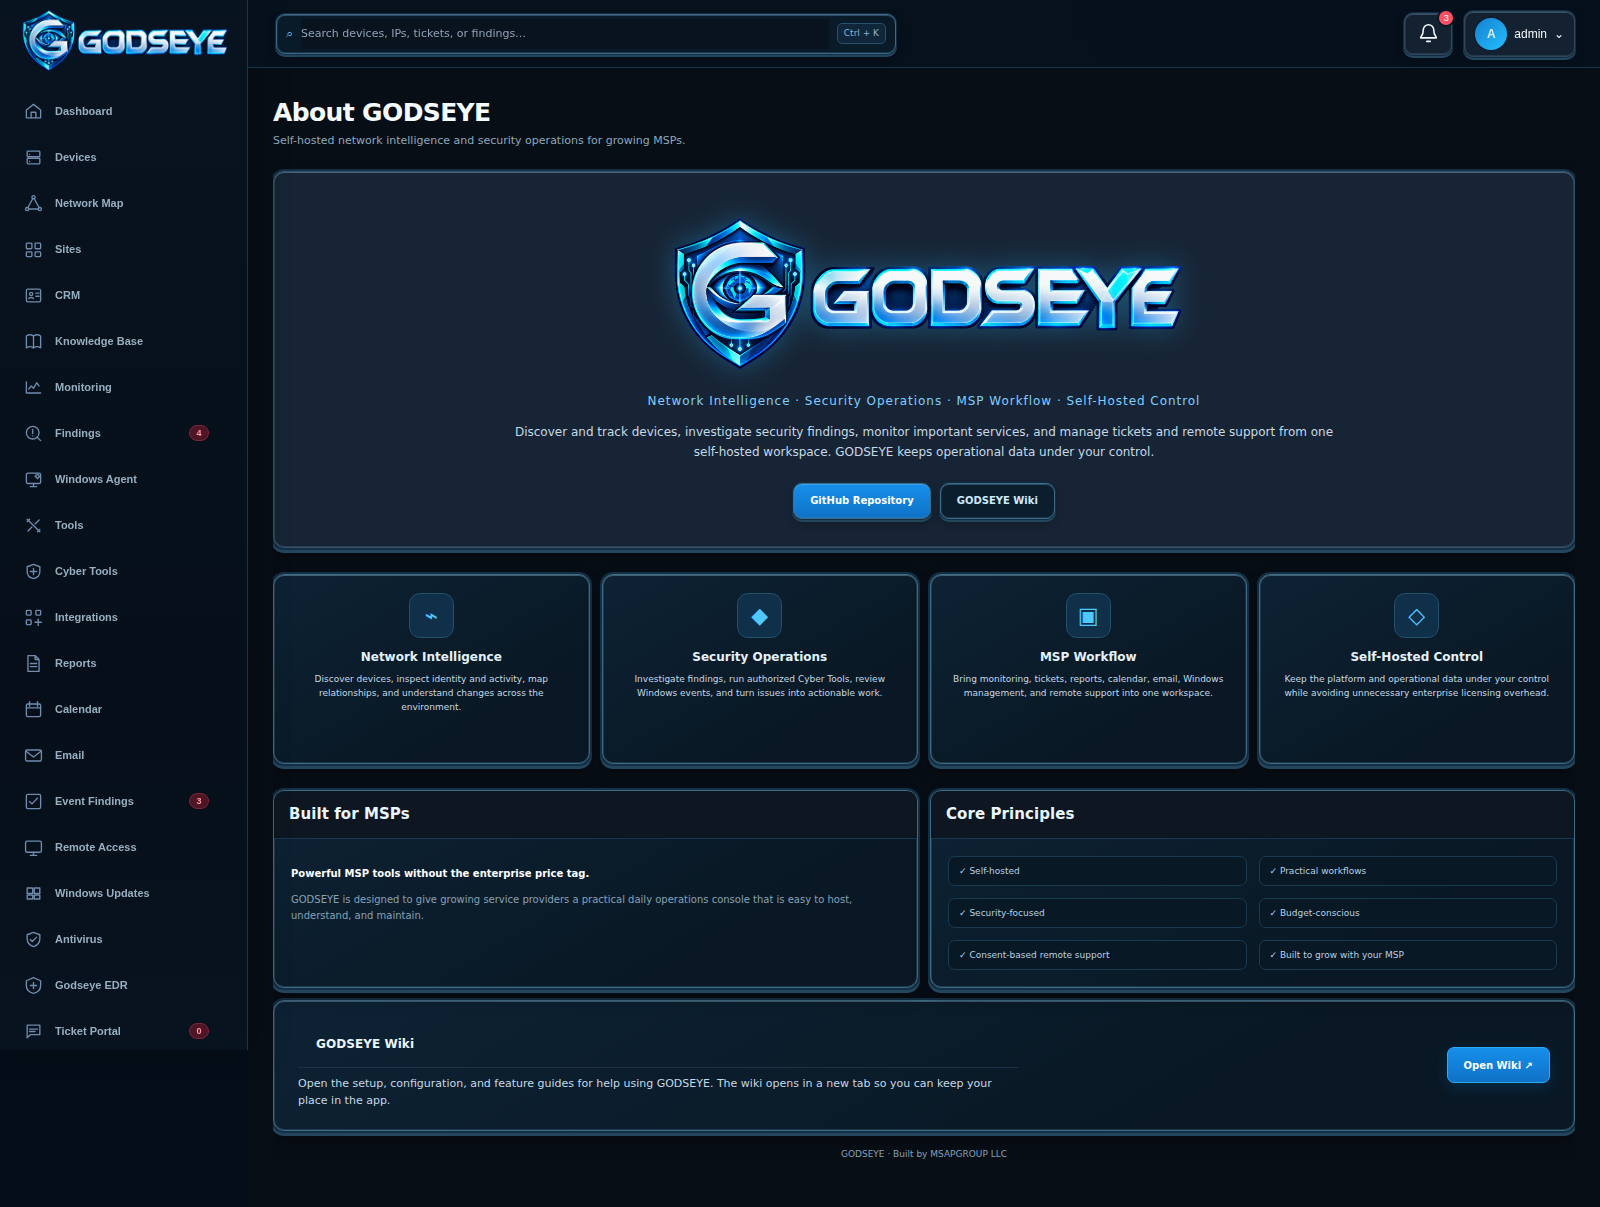
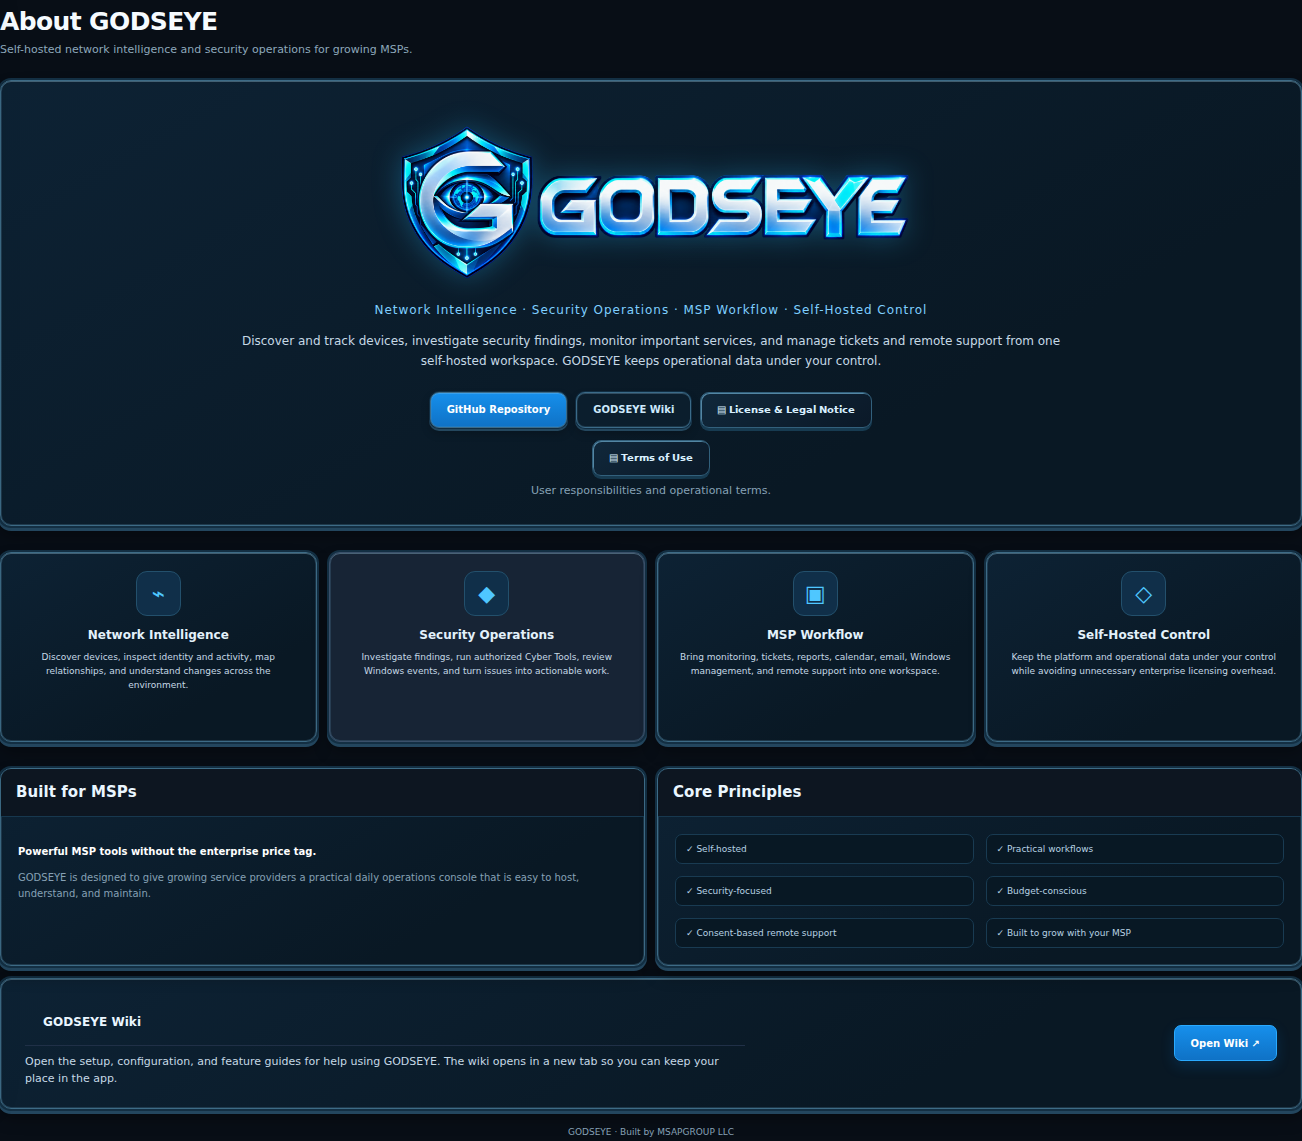
Add About license and terms cards with local GPL and screenshot guide

Changed region(s): [[0.0, 0.0, 1.0, 1.0], [0.0, 0.2761, 0.0922, 0.3988], [0.0, 0.1227, 0.0614, 0.2147]]

diff --git a/app/assets/about-legal.css b/app/assets/about-legal.css
@@ -1,0 +1,6 @@
+.about-terms-link{display:grid;justify-items:center;gap:8px;margin-top:12px}.about-terms-link small{color:#86adc7;font-size:11px}.about-legal-dialog{padding:0;width:min(920px,calc(100% - 32px));max-width:none;max-height:calc(100dvh - 32px);color:#e4f2fb;background:linear-gradient(145deg,#102b40,#071724);border:1px solid #508dab;border-radius:14px;box-shadow:inset 1px 1px #79b7d1,inset -1px -1px #234d66,0 4px #1b465c,0 24px 80px #0009;overflow:hidden}.about-legal-dialog::backdrop{background:#020c17bf;backdrop-filter:blur(3px)}.about-legal-shell{display:flex;flex-direction:column;max-height:calc(100dvh - 36px)}.about-legal-heading{display:flex;justify-content:space-between;align-items:flex-start;gap:16px;padding:25px 28px 12px}.about-legal-heading h2{margin:0 0 8px;font-size:25px;line-height:1.25;color:#eaf7ff}.about-legal-heading p{margin:0;color:#70d3ff;font-size:12px;letter-spacing:.07em}.about-legal-x{padding:2px 8px!important;background:transparent!important;border:0!important;box-shadow:none!important;color:#b9e5ff!important;font-size:28px!important;line-height:1!important;cursor:pointer}.about-legal-badge{align-self:flex-start;margin:0 28px 12px;border:1px solid #317dab;border-radius:20px;padding:5px 12px;color:#85d6ff;font-size:11px;background:#0a2c44}.about-legal-body{min-height:0;overflow-y:auto;overscroll-behavior:contain;padding:0 28px}.about-legal-body [hidden]{display:none!important}.about-legal-body section{padding:16px 0;border-bottom:1px solid #254d64}.about-legal-body section:last-child{border-bottom:0}.about-legal-body h3{margin:0 0 8px;color:#70d3ff;font-size:15px}.about-legal-body p{margin:0;color:#c5dcea;font-size:13px;line-height:1.65;overflow-wrap:anywhere}.about-legal-footer{display:flex;align-items:center;gap:14px;flex-wrap:wrap;padding:17px 28px;border-top:1px solid #2b5369;background:#071824}.about-legal-links{display:flex;gap:9px;flex-wrap:wrap}.about-legal-footer a,.about-legal-footer button{display:inline-flex;align-items:center;justify-content:center;text-decoration:none;font-size:11px!important;min-height:34px}.about-legal-footer small{color:#799eb6;font-size:10px;line-height:1.5;flex:1;min-width:120px}.about-legal-dialog :is(a,button):focus-visible{outline:3px solid #72d5ff;outline-offset:3px}@media(max-width:600px){.about-legal-heading{padding:18px 18px 10px}.about-legal-heading h2{font-size:21px}.about-legal-body{padding:0 18px}.about-legal-badge{margin-left:18px}.about-legal-footer{padding:12px 18px;gap:10px}.about-legal-links{width:100%}.about-legal-footer small{min-width:0}.about-legal-body p{font-size:12px}.about-legal-heading p{font-size:10px}}
+/* Keep site-wide header and heading rules from restyling the dialog. */
+#aboutLegalDialog .about-legal-heading{background:transparent!important;color:#eaf7ff!important;box-shadow:none!important;border-bottom:0!important;position:static!important;height:auto!important;min-height:0!important}
+#aboutLegalDialog .about-legal-heading h2{color:#eaf7ff!important}#aboutLegalDialog .about-legal-heading p{color:#70d3ff!important}#aboutLegalDialog .about-legal-body h3{color:#70d3ff!important}
+#aboutLegalNoticeButton,#view-about .about-terms-link button{border:1px solid #32607c!important;background:linear-gradient(145deg,#10283b,#0b1928)!important;box-shadow:inset 1px 1px #5386a3,0 3px #173b51!important;border-radius:9px!important;color:#d9f0ff!important}
+#aboutLegalDialog .about-legal-footer .secondary{border:1px solid #32607c!important;border-radius:8px!important;background:#0b2132!important;box-shadow:inset 1px 1px #3e6d86,0 2px #173b51!important;padding:8px 12px!important;color:#bde6ff!important}

diff --git a/app/assets/about-legal.js b/app/assets/about-legal.js
@@ -1,0 +1,26 @@
+/* Informational legal cards: no acceptance gate or changes to access permissions. */
+let ABOUT_LEGAL_KIND='notice',ABOUT_LEGAL_ORIGIN=null;
+function openAboutLegal(kind='notice'){
+ const dialog=document.getElementById('aboutLegalDialog');if(!dialog)return;
+ const terms=kind==='terms';ABOUT_LEGAL_KIND=terms?'terms':'notice';
+ document.getElementById('aboutLegalTitle').textContent=terms?'GODSEYE Terms of Use':'License & Legal Notice';
+ document.getElementById('aboutLegalSubtitle').textContent=terms?'MSAP Group LLC · Draft for review':'GODSEYE · MSAP Group LLC';
+ document.getElementById('aboutLegalNoticeContent').hidden=terms;
+ document.getElementById('aboutLegalTermsContent').hidden=!terms;
+ document.getElementById('aboutLegalSwitch').textContent=terms?'License & Legal Notice':'Terms of Use';
+ if(!dialog.open){ABOUT_LEGAL_ORIGIN=document.activeElement;dialog.showModal()}
+ dialog.querySelector('.about-legal-body').scrollTop=0;
+}
+function switchAboutLegal(){openAboutLegal(ABOUT_LEGAL_KIND==='notice'?'terms':'notice')}
+function closeAboutLegal(){document.getElementById('aboutLegalDialog')?.close()}
+const aboutLegalDialog=document.getElementById('aboutLegalDialog');
+aboutLegalDialog?.addEventListener('close',()=>{if(ABOUT_LEGAL_ORIGIN?.isConnected)ABOUT_LEGAL_ORIGIN.focus();ABOUT_LEGAL_ORIGIN=null});
+aboutLegalDialog?.addEventListener('click',event=>{if(event.target!==aboutLegalDialog)return;const r=aboutLegalDialog.getBoundingClientRect();if(event.clientX<r.left||event.clientX>r.right||event.clientY<r.top||event.clientY>r.bottom)closeAboutLegal()});
+aboutLegalDialog?.addEventListener('keydown',event=>{
+ if(event.key!=='Tab')return;
+ const items=[...aboutLegalDialog.querySelectorAll('a[href],button:not([disabled]),[tabindex="0"]')].filter(el=>el.getClientRects().length);
+ if(!items.length)return;
+ const first=items[0],last=items[items.length-1],active=document.activeElement;
+ if(event.shiftKey&&(active===first||!aboutLegalDialog.contains(active))){event.preventDefault();last.focus()}
+ else if(!event.shiftKey&&(active===last||!aboutLegalDialog.contains(active))){event.preventDefault();first.focus()}
+});

diff --git a/app/main.py b/app/main.py
@@ -918,6 +918,18 @@ def dashboard_map_reference():
 def godseye_approved_asset():
     return FileResponse(BASE_DIR / "app" / "assets" / "godseye-approved.png", media_type="image/png", headers={"Cache-Control":"public, max-age=86400"})
 
+@app.get("/assets/about-legal.css", include_in_schema=False)
+def about_legal_css_asset():
+    return FileResponse(BASE_DIR / "app" / "assets" / "about-legal.css", media_type="text/css")
+
+@app.get("/assets/about-legal.js", include_in_schema=False)
+def about_legal_js_asset():
+    return FileResponse(BASE_DIR / "app" / "assets" / "about-legal.js", media_type="application/javascript")
+
+@app.get("/assets/LICENSE.txt", include_in_schema=False)
+def about_license_asset():
+    return FileResponse(BASE_DIR / "LICENSE", media_type="text/plain")
+
 @app.get("/assets/audit.css", include_in_schema=False)
 def audit_css_asset():
     return FileResponse(BASE_DIR / "app" / "assets" / "audit.css", media_type="text/css")
@@ -7229,7 +7241,7 @@ html:not([data-theme="dark"]) :is(.v430-global-search,.v430-bell,.user-chip,.aut
 .cyber-report-heading{display:flex;align-items:start;gap:10px;justify-content:space-between;margin-bottom:12px}.cyber-report-status{font-size:10px;border:1px solid currentColor;border-radius:20px;padding:2px 7px;text-transform:capitalize}
 .cyber-report-metrics{display:grid;grid-template-columns:repeat(auto-fit,minmax(80px,1fr));gap:8px;margin-bottom:12px}.cyber-report-metric{padding:9px;border:1px solid #31516a;border-radius:8px;background:rgba(69,156,219,.08)}.cyber-report-metric strong{display:block;font-size:22px;color:#60bfff}.cyber-report-metric span{font-size:10px}
 .cyber-report-section{border:1px solid #31516a;border-radius:8px;margin:8px 0;padding:8px}.cyber-report-section summary{cursor:pointer;font-weight:600;overflow-wrap:anywhere}.cyber-report-field{display:grid;grid-template-columns:minmax(90px,1fr) minmax(0,1.5fr);gap:8px;padding:6px 0;border-bottom:1px solid rgba(128,158,183,.18)}.cyber-report-field strong{white-space:pre-wrap;overflow-wrap:anywhere;font-weight:500}.cyber-report-field>span{opacity:.8}.cyber-report-item{padding:6px 0;overflow-wrap:anywhere}.cyber-report-empty{opacity:.75}
-</style><link rel="stylesheet" href="/assets/sites.css"><link rel="stylesheet" href="/assets/crm.css"><link rel="stylesheet" href="/assets/kb.css"><link rel="stylesheet" href="/assets/audit.css"></head>
+</style><link rel="stylesheet" href="/assets/sites.css"><link rel="stylesheet" href="/assets/crm.css"><link rel="stylesheet" href="/assets/kb.css"><link rel="stylesheet" href="/assets/audit.css"><link rel="stylesheet" href="/assets/about-legal.css"></head>
 <body>
 <div id="authOverlay" class="overlay" style="display:none">
   <div class="authcard">
@@ -7950,7 +7962,9 @@ sudo godseye-https-setup godseye.example.com letsencrypt</pre></div></section>
     <div class="about-actions">
       <a class="primary about-button" href="https://github.com/msapgroup/Godseye" target="_blank" rel="noopener">GitHub Repository</a>
       <a class="secondary about-button" href="https://github.com/msapgroup/Godseye/wiki" target="_blank" rel="noopener noreferrer">GODSEYE Wiki</a>
+      <button type="button" class="secondary about-button" id="aboutLegalNoticeButton" onclick="openAboutLegal('notice')">▤ License &amp; Legal Notice</button>
     </div>
+    <div class="about-terms-link"><button type="button" class="secondary about-button" id="aboutTermsButton" onclick="openAboutLegal('terms')">▤ Terms of Use</button><small>User responsibilities and operational terms.</small></div>
   </div>
 
   <div class="about-feature-grid">
@@ -8158,6 +8172,30 @@ sudo godseye-https-setup godseye.example.com letsencrypt</pre></div></section>
   </div>
 </div>
 
+<dialog id="aboutLegalDialog" class="about-legal-dialog" aria-labelledby="aboutLegalTitle" aria-describedby="aboutLegalSubtitle">
+ <div class="about-legal-shell">
+  <header class="about-legal-heading"><div><h2 id="aboutLegalTitle">License &amp; Legal Notice</h2><p id="aboutLegalSubtitle">GODSEYE · MSAP Group LLC</p></div><button type="button" class="about-legal-x" aria-label="Close legal notice" onclick="closeAboutLegal()" autofocus>×</button></header>
+  <div class="about-legal-badge">GNU GPL v3.0</div>
+  <div class="about-legal-body">
+   <div id="aboutLegalNoticeContent">
+    <section><h3>1. Your responsibility</h3><p>You are responsible for deployment, configuration, permissions, backups, and all actions performed through GODSEYE and its agents. Obtain authorization before accessing or testing any device or network.</p></section>
+    <section><h3>2. No warranty</h3><p>GODSEYE is provided AS IS, without warranties of merchantability, fitness for a particular purpose, security, accuracy, or uninterrupted operation, to the extent permitted by applicable law.</p></section>
+    <section><h3>3. Limitation of liability</h3><p>To the extent permitted by applicable law, and unless agreed otherwise in writing, MSAP Group LLC and contributors are not liable for device or network damage, data loss, downtime, security incidents, lost profits, or other damages arising from use of, or inability to use, GODSEYE.</p></section>
+    <section><h3>4. License and legal rights</h3><p>The full GNU GPL v3.0 governs the software. This notice does not restrict GPL rights or exclude liability that applicable law does not permit to be excluded.</p></section>
+   </div>
+   <div id="aboutLegalTermsContent" hidden>
+    <section><h3>1. Authorized use &amp; account security</h3><p>Operate only on systems you own or have permission to manage. Protect credentials and tokens, control access, and obtain consent for remote support.</p></section>
+    <section><h3>2. Your data &amp; backups</h3><p>You retain ownership of your data. You are responsible for lawful collection, retention, access permissions, and tested backups of your self-hosted installation.</p></section>
+    <section><h3>3. Scans, updates &amp; remediation</h3><p>Review targets and findings before taking action. Test changes and keep recovery plans. Detection, scanning, updates, and remediation may be incomplete or disrupt systems.</p></section>
+    <section><h3>4. Third-party tools &amp; support</h3><p>Connected products, feeds, and services have separate terms and availability. Paid support or managed services require a separate written agreement.</p></section>
+    <section><h3>5. Warranty &amp; liability</h3><p>GODSEYE is provided AS IS. To the extent permitted by law, and unless agreed otherwise in writing, MSAP Group LLC disclaims warranties and liability for device or network damage, data loss, downtime, and other damages arising from use.</p></section>
+    <section><h3>6. Open-source rights &amp; legal limits</h3><p>GNU GPL v3.0 governs the software. This notice does not add restrictions to GPL rights or exclude liability that applicable law requires.</p></section>
+   </div>
+  </div>
+  <footer class="about-legal-footer"><div class="about-legal-links"><a class="secondary" href="/assets/LICENSE.txt" target="_blank" rel="noopener noreferrer">View GNU GPL v3.0 ↗</a><button type="button" class="secondary" id="aboutLegalSwitch" onclick="switchAboutLegal()">Terms of Use</button></div><small>Draft notice · Attorney review recommended before publication</small><button type="button" class="primary" onclick="closeAboutLegal()">Close</button></footer>
+ </div>
+</dialog>
+
 <div id="headerHelpModal" class="header-help-modal" style="display:none" role="dialog" aria-modal="true" aria-labelledby="headerHelpModalTitle">
   <div class="header-help-dialog">
     <div class="header-help-modal-head">
@@ -8167,7 +8205,7 @@ sudo godseye-https-setup godseye.example.com letsencrypt</pre></div></section>
     <div id="headerHelpModalBody" class="header-help-body"></div>
   </div>
 </div>
-<script src="/assets/sites.js"></script><script src="/assets/crm.js"></script><script src="/assets/kb.js"></script><script src="/assets/audit.js"></script>
+<script src="/assets/sites.js"></script><script src="/assets/crm.js"></script><script src="/assets/kb.js"></script><script src="/assets/audit.js"></script><script src="/assets/about-legal.js"></script>
 <script>
 const esc=s=>String(s??'').replace(/[&<>"']/g,m=>({'&':'&amp;','<':'&lt;','>':'&gt;','"':'&quot;',"'":'&#39;'}[m]));
 const CLASS_CYCLE={new:'investigate',investigate:'known',known:'managed',managed:'ignored',ignored:'new'};

diff --git a/scripts/capture_live_ui.py b/scripts/capture_live_ui.py
@@ -74,6 +74,22 @@ def capture() -> None:
         ]:
             assert phrase in about_text, phrase
 
+        # Capture the real About legal cards and verify their dismissal controls.
+        for button, title, filename in [
+            ("#aboutLegalNoticeButton", "License & Legal Notice", "godseye-license-notice.png"),
+            ("#aboutTermsButton", "GODSEYE Terms of Use", "godseye-terms-of-use.png"),
+        ]:
+            page.locator(button).click()
+            expect(page.locator("#aboutLegalDialog")).to_be_visible()
+            expect(page.locator("#aboutLegalTitle")).to_have_text(title)
+            page.locator("#aboutLegalDialog").screenshot(path=str(OUT / filename))
+            page.keyboard.press("Escape")
+            expect(page.locator("#aboutLegalDialog")).to_be_hidden()
+            expect(page.locator(button)).to_be_focused()
+        license_response = page.request.get(BASE + "/assets/LICENSE.txt")
+        assert license_response.status == 200
+        assert "GNU GENERAL PUBLIC LICENSE" in license_response.text()
+
         browser.close()
 
 

diff --git a/docs/LEGAL_NOTICES.md b/docs/LEGAL_NOTICES.md
@@ -1,0 +1,30 @@
+# About-page legal notices
+
+The About page includes two informational cards in the same blue 3D style as GODSEYE.
+
+## License & Legal Notice
+
+Select **License & Legal Notice** beside **GODSEYE Wiki**. The card explains responsibility for deployment and authorized access, the warranty disclaimer, the limitation of liability, and the relationship to the GNU GPL v3.0.
+
+![License and Legal Notice](screenshots/v431-about-license-notice.png)
+
+## Terms of Use
+
+Select **Terms of Use** beneath the three main About links. This second card covers authorized use and account security, ownership and handling of data, backups, scans and remediation, third-party tools, support agreements, warranties, liability, and GPL rights.
+
+![Terms of Use](screenshots/v431-about-terms-of-use.png)
+
+The text is original GODSEYE wording for MSAP Group LLC. Microsoft does not provide or endorse these notices.
+
+## Controls
+
+- **View GNU GPL v3.0** opens the complete bundled `LICENSE` in a new tab; Internet access is not required.
+- The second button in each card switches to the other notice.
+- **Close**, **×**, **Escape**, or a click outside the card dismisses it and returns keyboard focus to the original About button.
+- **Tab** and **Shift+Tab** keep focus within the open card. On small screens, scroll the body while the closing controls remain available.
+
+The notices are available to all users who can open About. They add no acceptance gate, change no role permissions, and do not modify the server or Windows Agent's operational behavior.
+
+## Draft status and license precedence
+
+These are drafts for attorney review, not a guarantee of enforceability or immunity from every claim. Liability exclusions apply only to the extent permitted by applicable law and may be affected by a separate written agreement. The full GNU GPL v3.0 in [LICENSE](../LICENSE) governs the software. These notices do not impose additional restrictions on GPL rights or exclude liability that applicable law does not permit to be excluded. Third-party components retain their respective licenses.

diff --git a/README.md b/README.md
@@ -222,6 +222,14 @@ After a run, review the structured result and scan history. Where supported, res
 
 **How it works:** About GODSEYE explains the four parts of the platform: network discovery and device intelligence, security investigation, day-to-day MSP workflows, and self-hosted control of your operational data. Select **GODSEYE Wiki** or **Open Wiki** to open the setup, configuration, and feature guides in a new tab while keeping the app open.
 
+**License and legal notices:** Select **License & Legal Notice** beside the Wiki button to read the user-responsibility, warranty, liability, and GPL notices. Select **Terms of Use** beneath those buttons for the operational terms card. You can switch between the two cards without closing them. **View GNU GPL v3.0** opens the complete bundled license in a new tab and works without Internet access. Close with **Close**, **×**, **Escape**, or by clicking outside the card; keyboard focus returns to the About-page button. These notices are informational and do not require an acceptance checkbox or change app permissions.
+
+![GODSEYE License and Legal Notice card](docs/screenshots/v431-about-license-notice.png)
+
+![GODSEYE Terms of Use card](docs/screenshots/v431-about-terms-of-use.png)
+
+The notices are drafts for attorney review. They preserve GNU GPL v3.0 rights and exclusions required by applicable law; they do not guarantee immunity from every claim. [Read the legal-notice guide](docs/LEGAL_NOTICES.md).
+
 ---
 
 ## Designed for day-to-day MSP operations

diff --git a/docs/SCREENSHOTS.md b/docs/SCREENSHOTS.md
@@ -101,3 +101,16 @@ Review structured results and scan history, create Findings or Tickets where sup
 ![About GODSEYE](screenshots/godseye-about.png)
 
 The About workspace explains GODSEYE's network intelligence, security operations, MSP workflows, and self-hosted control, with links to setup and technical documentation.
+
+
+## License & Legal Notice
+
+![License and Legal Notice](screenshots/v431-about-license-notice.png)
+
+Open **About → License & Legal Notice** to read the notice. **View GNU GPL v3.0** opens the locally bundled complete license. Close using **Close**, **×**, or **Escape**.
+
+## Terms of Use
+
+![Terms of Use](screenshots/v431-about-terms-of-use.png)
+
+Open **About → Terms of Use** beneath the About-page links. Review responsibilities for access, data, backups, scans, updates, third-party products, and liability. The cards are draft notices and preserve GPL rights.
